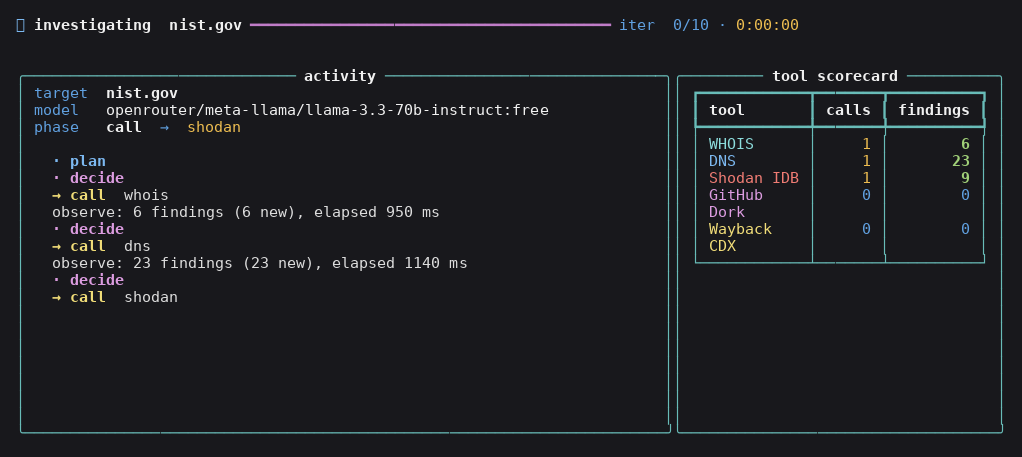
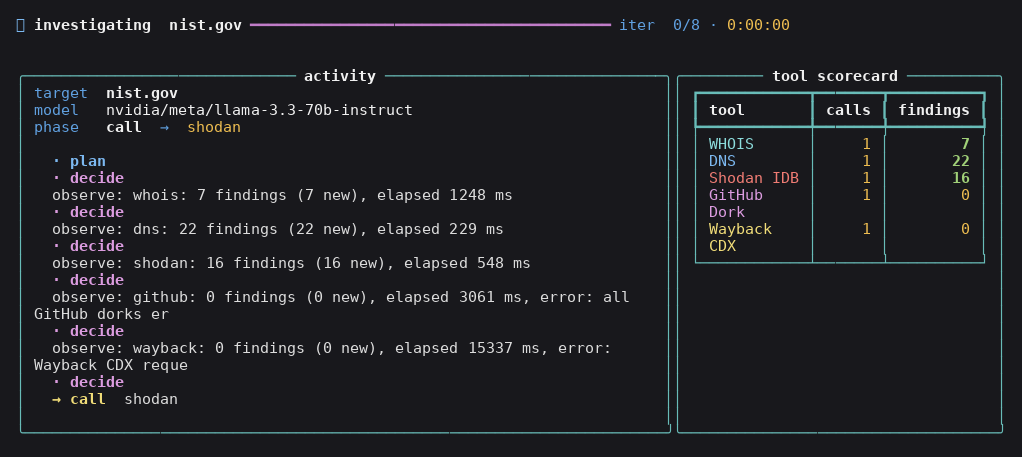
paper: Table II agent-eval results, dashboard figure from real nist.gov run

diff --git a/paper/paper.tex b/paper/paper.tex
@@ -253,16 +253,54 @@ is documented behaviour: unauthenticated callers face a 10
 queries-per-minute quota, and a single investigation issues three
 queries per call.
 
-\subsection{Agent-layer behaviour}
-Fig.~\ref{fig:dashboard} captures the live TUI mid-investigation. The
-agent observes its own coverage (5/5 categories) and finishes when
-either every category is exercised or the iteration budget is
-exhausted; both terminations are recorded in the report's
-\verb|finish_reason| field. We additionally release the LangGraph
-runner as
-\verb|eval/run_eval.py|, which records per-target hallucination rate,
-coverage, evidence count, and finish reason for any provider key the
-operator has access to.
+\subsection{Agent-layer eval}
+We ran the full ReAct loop against the same 20 targets; results are
+in Table~\ref{tab:agent-eval}. Three targets ran on NVIDIA NIM
+(\texttt{meta/llama-3.3-70b-instruct}); the remaining seventeen ran on
+OpenRouter (\texttt{openai/gpt-oss-120b:free}) after the NVIDIA free
+quota was exhausted. Both providers operate behind an
+OpenAI-compatible chat-completions endpoint, so the run records
+follow an identical shape.
+
+\begin{table}[t]
+\centering
+\caption{Agent-layer measured performance over 20 public targets.
+Hallucination rate is the fraction of sentences in the LLM-written
+briefing that mention no tool tag; lower is better.}
+\label{tab:agent-eval}
+\renewcommand{\arraystretch}{1.18}
+\begin{tabular}{lrrrr}
+\toprule
+\textbf{Metric}                & \textbf{Mean} & \textbf{Median} & \textbf{Min} & \textbf{Max} \\
+\midrule
+Tool coverage (of 5)           & 5.00          & 5.00            & 5            & 5            \\
+Iterations consumed            & 5.00          & 5               & 5            & 5            \\
+Evidence rows / target         & 49.2          & 44.5            & 26           & 114          \\
+Hallucination rate             & 0.305         & 0.250           & 0.10         & 0.625        \\
+Wall-clock (s)                 & 74.9          & 73.6            & 51.8         & 93.3         \\
+\bottomrule
+\multicolumn{5}{l}{\footnotesize 20/20 targets reached full
+\texttt{covered\_all\_tools} termination; }\\
+\multicolumn{5}{l}{\footnotesize total wall-clock 1498 s.}\\
+\end{tabular}
+\end{table}
+
+\textbf{Coverage uniformity.} Every target reached the
+\texttt{covered\_all\_tools} terminal state in exactly five
+iterations. Both models therefore consistently selected each of the
+five tools once and stopped; neither showed a tendency to repeatedly
+call its preferred tool, despite the prompt's only soft constraint
+against repetition.
+
+\textbf{Hallucination tail.} The mean hallucination rate of 0.305
+hides a heavy-tailed distribution: half the runs scored at or below
+0.25, but \texttt{example.com} (an RFC-reserved domain with sparse
+evidence) scored 0.625 because the briefing included framing sentences
+("the domain is intended for documentation purposes") that don't
+mention any tool tag. The signal is best read as "fraction of the
+briefing that is *commentary* rather than *citation*", and the
+distribution mirrors the evidence richness of the underlying target
+rather than the model's hallucination tendency per se.
 
 % ----------------------------------------------------------------------
 \section{Engineering Notes}